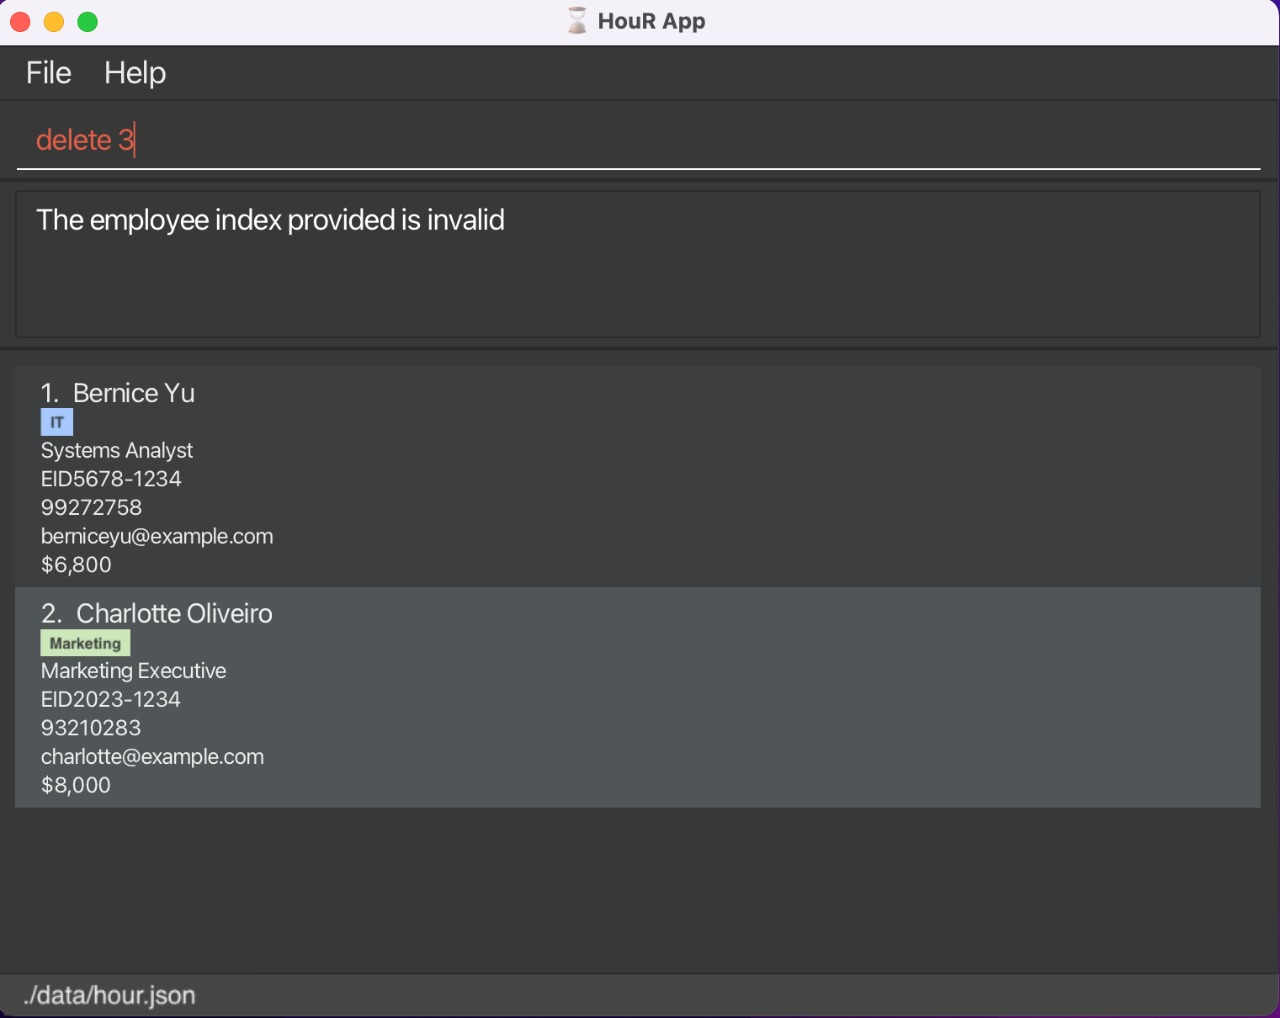
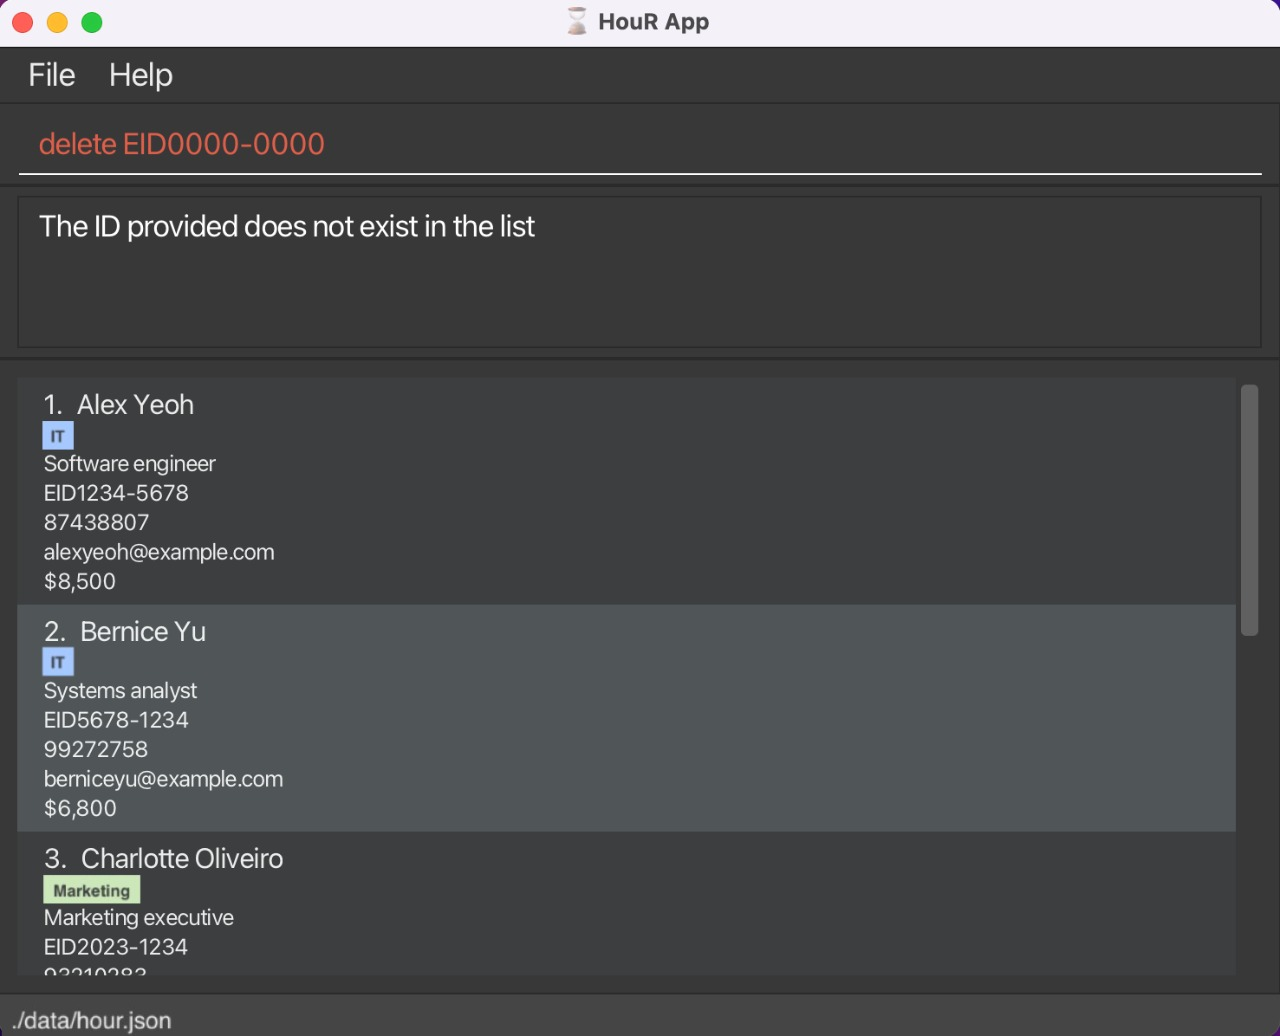
Update UG and DG for new sort and delete feature

diff --git a/docs/UserGuide.md b/docs/UserGuide.md
@@ -35,8 +35,10 @@ HouR is a **desktop app for managing employee records, optimized for use via a C
    
    * `find Alex`: Lists all employees with the keyword `Alex`.
 
-   * `delete 3` : Deletes the 3rd employee shown in the current list.
+   * `delete EID1234-5678` : Deletes the employee with employee id EID1234-5678 shown in the list.
 
+   * `sort by/Salary`: Sorts the employees by their salaries in ascending order.
+   * 
    * `clear` : Deletes all employees.
 
    * `exit` : Exits the app.
@@ -53,6 +55,7 @@ HouR is a **desktop app for managing employee records, optimized for use via a C
 - Edits an employee: `edit`
 - List all employees: `list`
 - Find employees by name: `find`
+- Sorts employees by attribute: `sort`
 - Clear all employees: `clear`
 - Exit the program: `exit`
 
@@ -100,7 +103,7 @@ Examples:
 
 ![add failure](images/addFailure.png)
 
-### Listing all persons : `list`
+### Listing all employees : `list`
 
 Shows a list of all employees in the employee list.
 
@@ -124,7 +127,7 @@ Examples:
 *  `edit 10 pos/Senior Software Engineer` is invalid because the index does not exist.
 ![edit failure](images/editFailure.png)
 
-### Locating persons by name: `find`
+### Locating employees by name: `find`
 
 Finds employees whose names contain any of the given keywords.
 
@@ -145,19 +148,37 @@ Examples:
 
 Deletes an employee from the employee list.
 
-Format: `delete INDEX`
+Format: `delete EMPLOYEE_ID`
 
-* Deletes the employee at the specified `INDEX`.
-* The index refers to the index number shown in the employee list.
-* The index **must be a positive integer** (1, 2, 3, …)
+* Deletes the employee at the specified `EMPLOYEE_ID`.
+* The employee id refers to each employee's unique employee id.
+* The employee id **must be follow the EID format** (EID[4 digits]-[4 digits])
 
 Examples:
-* `delete 1` deletes the 1st employee in the employee list.
+* `delete EID1234-5678` deletes the employee with employee id EID1234-5678 in the employee list.
  
 ![delete success](images/deleteSuccess.png)  
 
-* `delete 3` is invalid because the index is out of range.
+* `delete EID000-0000` is invalid because the id does not exist.
 ![delete failure](images/deleteFailure.png)
+
+### Sorting all employees : `sort`
+
+Sorts the employee list by a given attribute.
+
+Format: `sort by/ATTRIBUTE`
+
+* Sorts the employee list by the specified `ATTRIBUTE` in ascending order (by default).
+* The attribute has to be non-empty and exist (Position/ID/Phone/Email/Salary)
+
+Examples:
+* `sort by/Salary` deletes the employee with employee id EID1234-5678 in the employee list.
+
+![sort success](images/sortSuccess.png)
+
+* `sort by/blah` is invalid because it does not exist.
+
+![sort failure](images/sortFailure.png)
 
 ### Clearing all entries : `clear`
 
@@ -210,9 +231,10 @@ Action | Format, Examples
 --------|------------------
 **Add** | `add n/NAME pos/POSITION id/EMPLOYEE_ID p/PHONE_NUMBER e/EMAIL s/SALARY [d/DEPARTMENT]...` <br> e.g., `add n/James Ho pos/Auditor id/EID2023-0928 p/87651234 e/jamesho@example.com s/$8,000`
 **Clear** | `clear`
-**Delete** | `delete INDEX`<br> e.g., `delete 3`
+**Delete** | `delete EMPLOYEE-ID`<br> e.g., `delete EID1234-5678`
 **Edit** | `edit INDEX [n/NAME] [p/POSITION] [id/EMPLOYEE_ID] [p/PHONE_NUMBER] [e/EMAIL] [s/SALARY] [d/DEPARTMENT]...`<br> e.g.,`edit 2 n/James Lee pos/Head Auditor`
 **Find** | `find KEYWORD [MORE_KEYWORDS]`<br> e.g., `find James Jake`
 **List** | `list`
+**Sort** | `sort by/ATTRIBUTE`
 **Help** | `help`
 **Exit** | `exit`

diff --git a/docs/DeveloperGuide.md b/docs/DeveloperGuide.md
@@ -334,7 +334,7 @@ Priorities: High (must have) - `* * *`, Medium (nice to have) - `* *`, Low (unli
 
   Use case ends.
 
-* 3a. The given index is invalid.
+* 3a. The given employee id is invalid.
 
     * 3a1. HouR shows an error message.
 
@@ -398,6 +398,27 @@ Priorities: High (must have) - `* * *`, Medium (nice to have) - `* *`, Low (unli
     * 1b1. HouR shows an empty list. 
   
   Use case ends.
+
+**Use case: Sort employees**
+
+**MSS**
+
+1.  User requests to sort employees by given attribute
+2.  HouR returns the sorted list of employees by given attribute
+
+    Use case ends.
+
+**Extensions**
+
+* 1a. User leaves out keyword.
+    * 1a1. HouR shows an error message.
+
+  Use case returns back to step 1.
+
+* 1b. No attribute matches given attribute.
+    * 1b1. HouR shows an error message.
+
+  Use case returns back to step 1.
 
 **Use case: Clear employee book**
 
